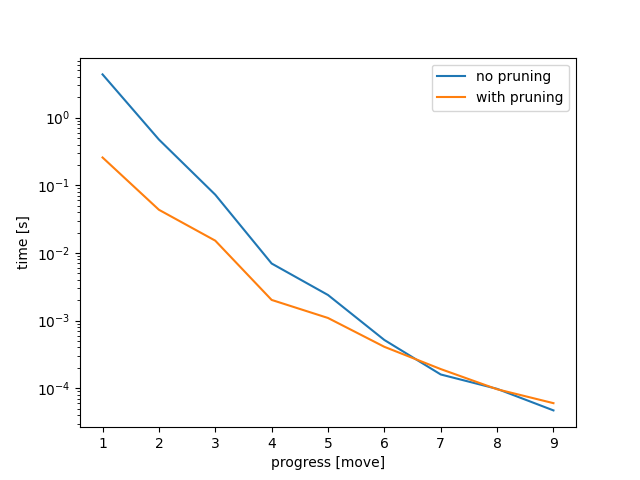
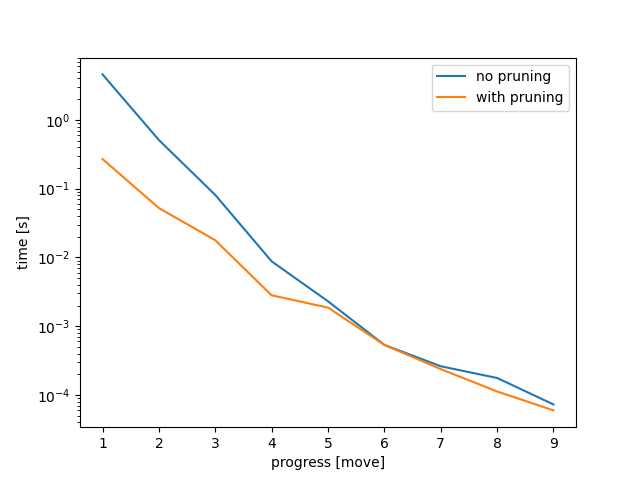
wszystkie eksperymenty wykonane

diff --git a/WSI/zadanie3/experiments.py b/WSI/zadanie3/experiments.py
@@ -55,9 +55,10 @@ def measure_starting_moves(parameters):
         data[move] = {}
         minmax = MiniMax()
         data_depth = measure_depth(game, minmax, move)
-        data_time = time_measure(game, minmax, move, measure_number)
+        data_time, data_dev = time_measure(game, minmax, move, measure_number)
         data[move].update(data_depth)
         data[move]['time'] = data_time
+        data[move]['stdev'] = data_dev
     save_starting_moves(data, path)
 
     game = TicTacToe(dimension)
@@ -68,7 +69,7 @@ def measure_starting_moves(parameters):
         data[move] = {}
         minmax = MiniMax(True)
         data_depth = measure_depth(game, minmax, move, alpha, beta)
-        data_time = time_measure(
+        data_time, data_dev = time_measure(
             game,
             minmax,
             move,
@@ -78,6 +79,8 @@ def measure_starting_moves(parameters):
             )
         data[move].update(data_depth)
         data[move]['time'] = data_time
+        data[move]['stdev'] = data_dev
+
     path = path[:-4] + '_pruning' + path[-4:]
     save_starting_moves(data, path)
 
@@ -120,7 +123,6 @@ def measure_progress(parameters):
 
 
 def plot_times(path, data_no_pruning, data_with_pruning):
-    print('test1')
     fig, ax = plt.subplots()
     x = [1, 2, 3, 4, 5, 6, 7, 8, 9]
     ax.plot(x, data_no_pruning, label='no pruning')
@@ -129,5 +131,4 @@ def plot_times(path, data_no_pruning, data_with_pruning):
     plt.ylabel('time [s]')
     ax.legend()
     ax.set_yscale('log')
-    print('test2')
     fig.savefig(path)

diff --git a/WSI/zadanie3/tools.py b/WSI/zadanie3/tools.py
@@ -1,14 +1,16 @@
 from timeit import default_timer as timer
+import statistics
 
 
 def save_starting_moves(data, path):
     with open(path, 'w') as file:
-        file.write('move,time,nodes,mean_depth\n')
+        file.write('move,time,stdev,nodes,mean_depth\n')
         for move in data:
             time = data[move]['time']
+            stdev = data[move]['stdev']
             nodes = data[move]['nodes']
             mean_depth = data[move]['mean_depth']
-            row = f'{move},{time},{nodes},{mean_depth}\n'
+            row = f'{move},{time},{stdev},{nodes},{mean_depth}\n'
             file.write(row)
 
 
@@ -21,8 +23,9 @@ def time_measure(game, minmax, move, n, alpha=None, beta=None):
         minmax.reset()
         data.append(end - start)
         print(f'{i}: {end - start}')
+    stdev = statistics.stdev(data)
     mean_time = sum(data) / len(data)
-    return mean_time
+    return mean_time, stdev
 
 
 def measure_depth(game, minmax, move, alpha=None, beta=None):

diff --git a/WSI/zadanie3/parameters.py b/WSI/zadanie3/parameters.py
@@ -1,6 +1,6 @@
 PLAY_GAME = False
 
-MEASURE_STARTING_MOVES = False
+MEASURE_STARTING_MOVES = True
 
 MEASURE_PROGRESS = True
 
@@ -13,13 +13,13 @@ PLAY_GAME_PARAMETERS = [
 
 MEASURE_STARTING_MOVES_PARAMETERS = [
     dimension := 3,
-    measures_number := 2,
-    save_data_path := './results/measured_time.txt',
+    measures_number := 10,
+    save_data_path := './results/starting_moves.txt',
 ]
 
 MEASURE_PROGRESS_PARAMETERS = [
     dimension := 3,
-    save_plot_path := './plots/time_plot.png',
+    save_plot_path := './plots/progress_plot.png',
     measure_number := 10,
     save_times_path := './results/progress_times.txt'
 ]
